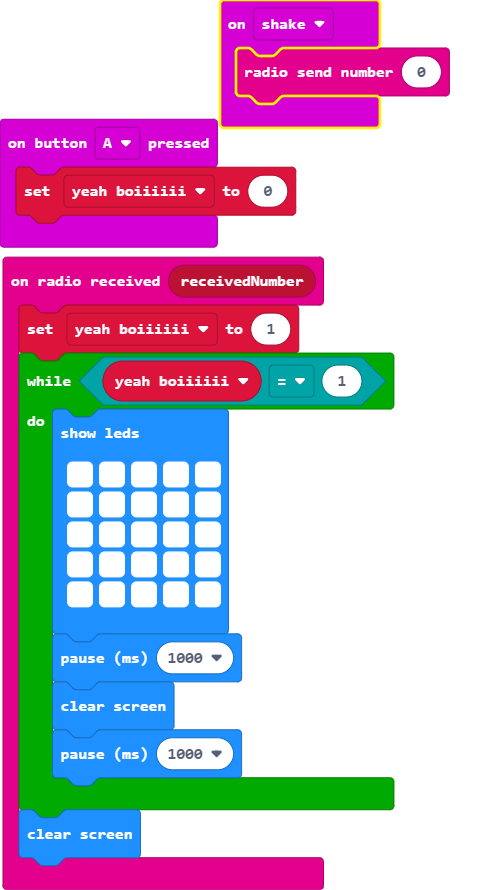
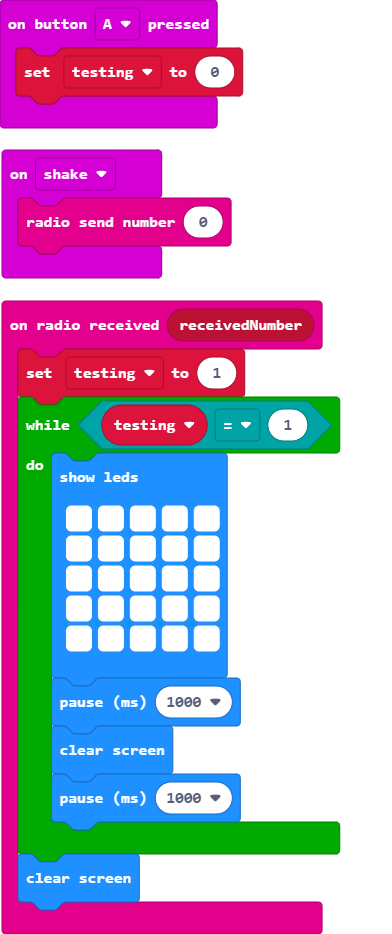
Update main.blocks, main.ts

diff --git a/main.ts b/main.ts
@@ -1,7 +1,7 @@
-let yeah_boiiiiii = 0
+let testing = 0
 radio.onReceivedNumber(function (receivedNumber) {
-    yeah_boiiiiii = 1
-    while (yeah_boiiiiii == 1) {
+    testing = 1
+    while (testing == 1) {
         basic.showLeds(`
             # # # # #
             # # # # #
@@ -16,7 +16,7 @@ radio.onReceivedNumber(function (receivedNumber) {
     basic.clearScreen()
 })
 input.onButtonPressed(Button.A, function () {
-    yeah_boiiiiii = 0
+    testing = 0
 })
 input.onGesture(Gesture.Shake, function () {
     radio.sendNumber(0)
